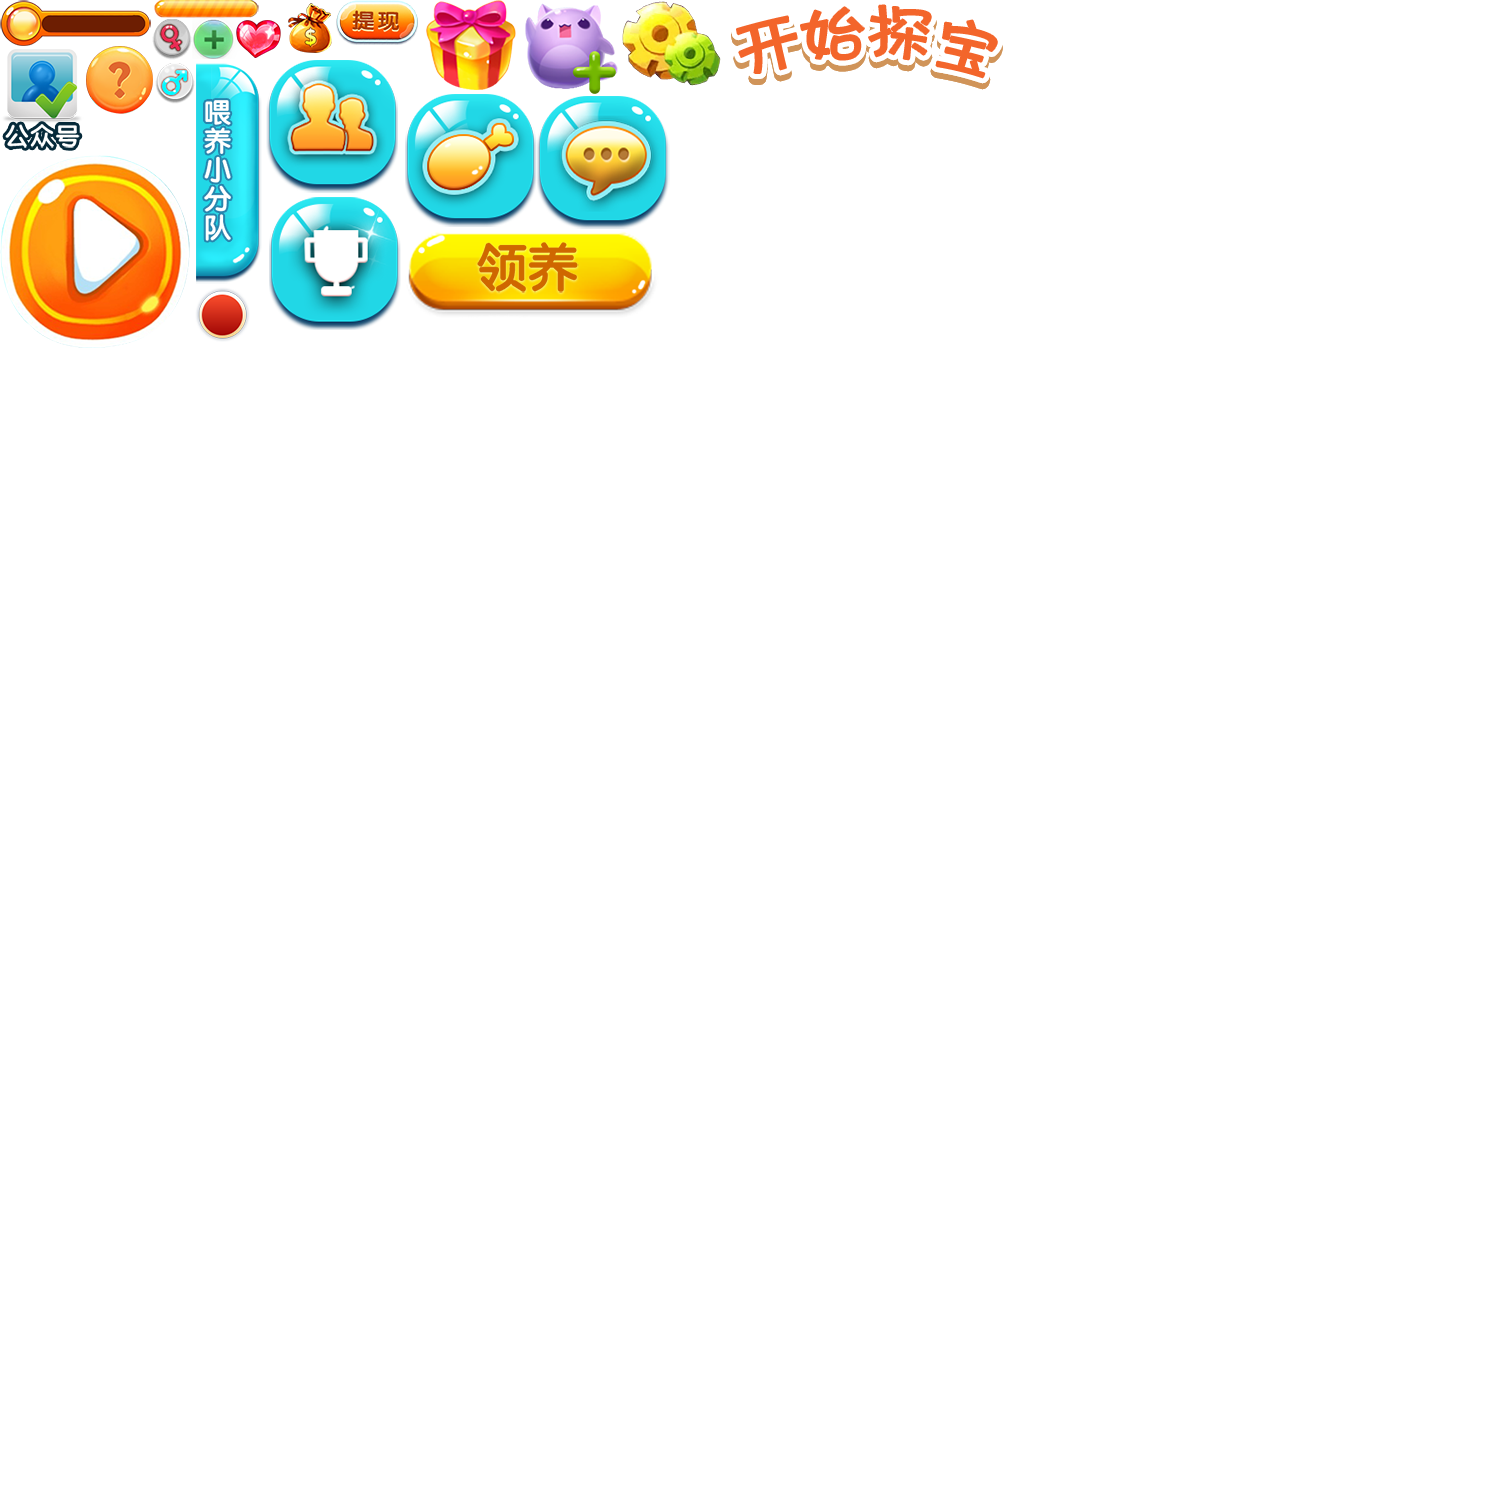
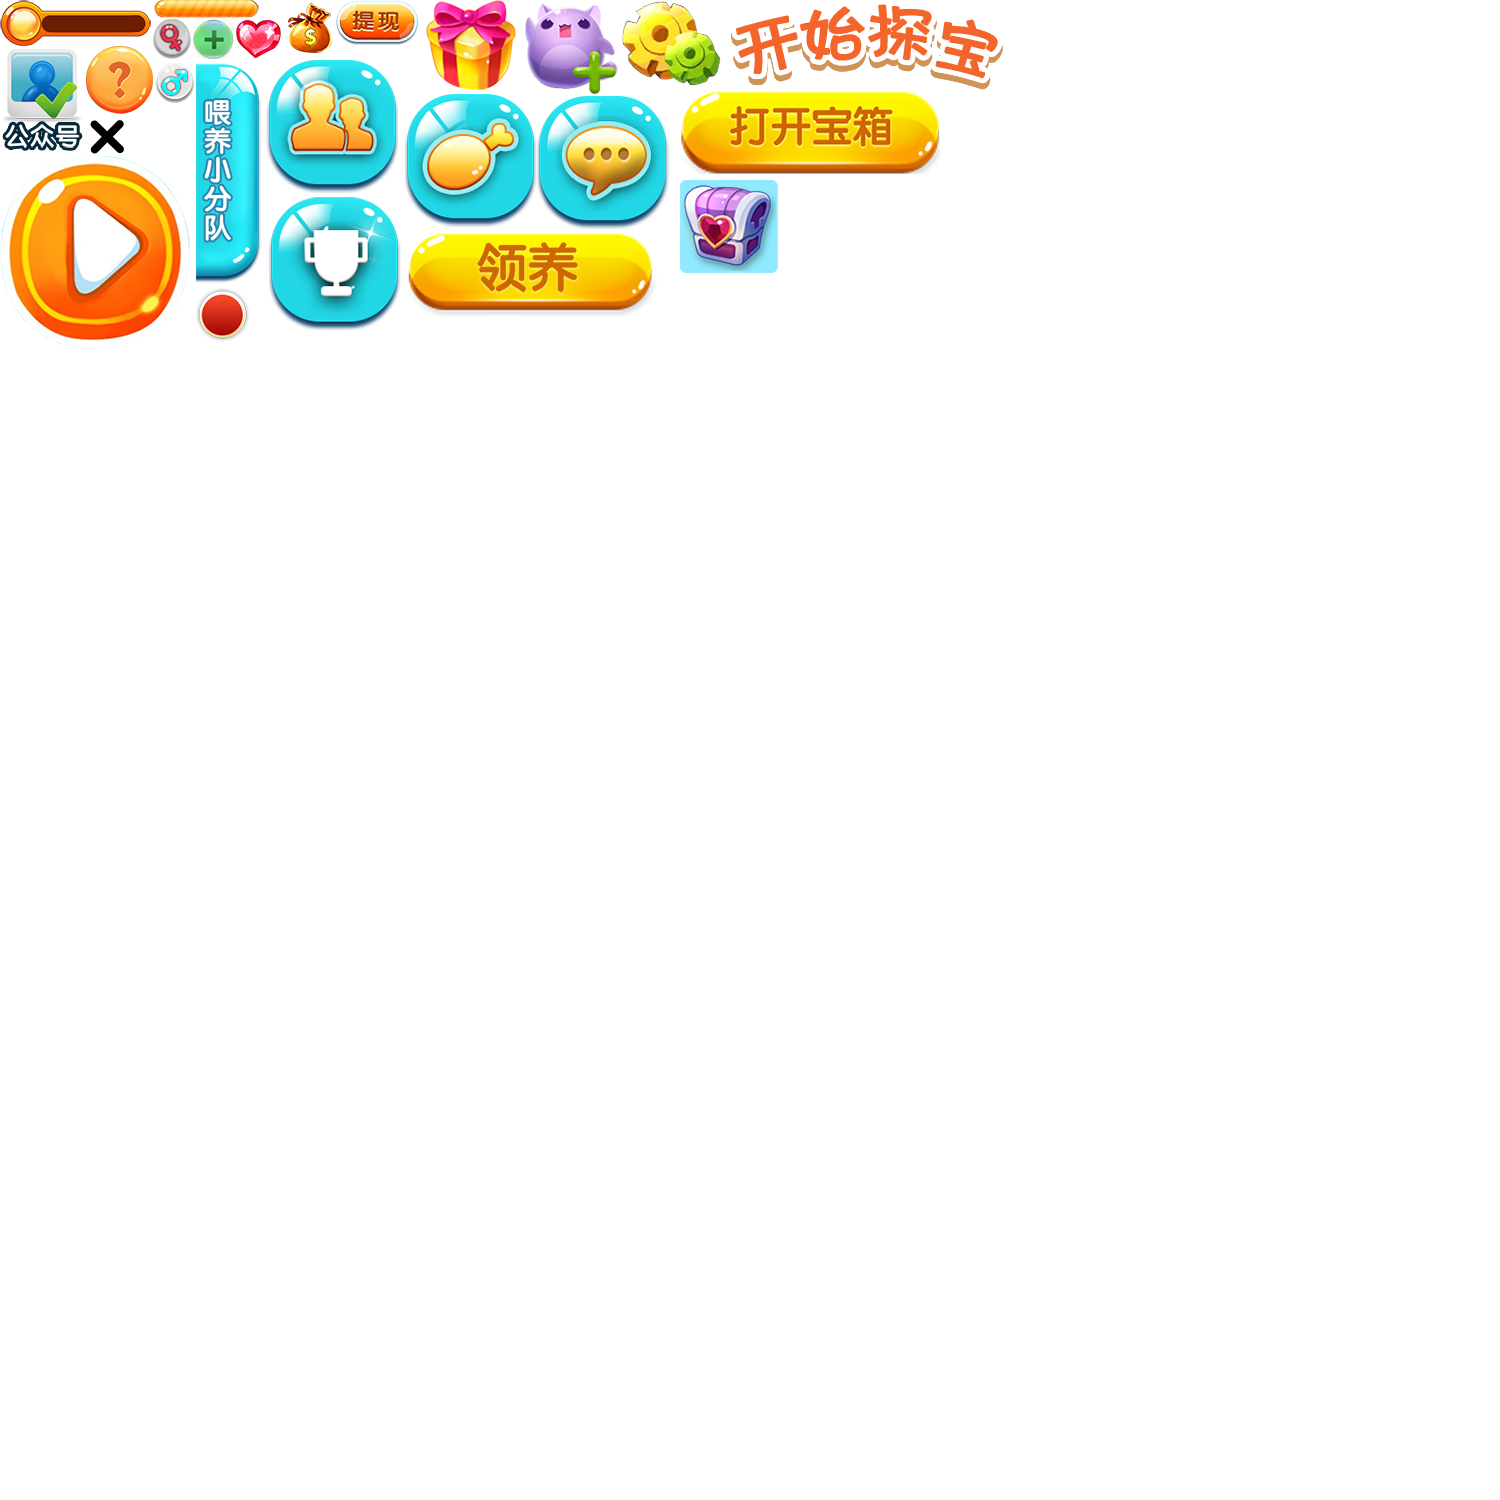
x

Changed region(s): [[0.4293, 0.0613, 0.644, 0.184], [0.0613, 0.0613, 0.092, 0.1227]]

diff --git a/xunbao/css/main.css b/xunbao/css/main.css
@@ -8,99 +8,18 @@ li{ list-style:none;}
 input{ -webkit-appearance:none; border-radius:0;}
 select{ -webkit-appearance:select; border-radius:0;}
 
-.cover{ width: 100%; height: 100%; background-color: rgba(0,0,0,0.5); position: fixed; top: 0; left: 0; z-index: 100;}
 canvas{display: block;}
 
-#loading{ width: 100%; height: 100%; background-color: #3c384a; position: fixed; top: 0; left: 0; z-index: 100; background-repeat: no-repeat; background-size: 100% 100%;}
-#animation{ width: 46%; margin: 35% auto 20% auto; position: relative;}
-#animation img{ width: 100%; display:block;}
-#animation div{ border-radius:50%; overflow:hidden;transform:scale(0.9,0.9); -webkit-transform:scale(0.9,0.9);}
-#animation div img{ border-radius:50%;}
-#animation img:nth-child(2){ position: absolute; top: 0; left: 0; animation:load 3s linear infinite; -webkit-animation:load 3s linear infinite;}
-@keyframes load{
-    0%{transform:rotateZ(0deg);}
-    100%{transform:rotateZ(360deg);}
-}
-@-webkit-keyframes load{
-    0%{-webkit-transform:rotateZ(0deg);}
-    100%{-webkit-transform:rotateZ(360deg);}
-}
-#loading p{ color: #FFF; text-align: center; font-size: 18px;}
+.window{ width: 100%; height: 100%; position: fixed; top:0; left: 0; z-index: 100; background-color: rgba(0,0,0,0.5); overflow: hidden; display: none;}
+.frame{ width: 98%; margin: 5% auto; border-radius: 20px; background-color: #67d8f2; overflow: hidden; transition: all 0.3s ease-out;-webkit-transition: all 0.3s ease-out;}
+.title{ width: 100%; overflow: hidden; border-radius: 20px 20px 0 0; background: -webkit-gradient(linear,0 0,0 100%,from(#1cbae8),to(#1ab7e7)); padding: 6px 0; box-shadow: 0 1px 4px rgba(0,0,0,0.5);}
+.title p{ font-size: 20px; text-align: center; color: #FFF; font-weight: bold;}
+.content{ width: 94%; margin: 5% auto; background-color: #e5f6fe; border-radius: 14px;}
+#map{ border: 2px solid #1795bb; min-height: 500px;}
 
 
-@-webkit-keyframes rubberBand {
-    0% {
-        -webkit-transform: scale3d(1, 1, 1);
-        transform: scale3d(1, 1, 1)
-    }
-    30% {
-        -webkit-transform: scale3d(1.25, .75, 1);
-        transform: scale3d(1.25, .75, 1)
-    }
-    40% {
-        -webkit-transform: scale3d(0.75, 1.25, 1);
-        transform: scale3d(0.75, 1.25, 1)
-    }
-    50% {
-        -webkit-transform: scale3d(1.15, .85, 1);
-        transform: scale3d(1.15, .85, 1)
-    }
-    65% {
-        -webkit-transform: scale3d(.95, 1.05, 1);
-        transform: scale3d(.95, 1.05, 1)
-    }
-    75% {
-        -webkit-transform: scale3d(1.05, .95, 1);
-        transform: scale3d(1.05, .95, 1)
-    }
-    100% {
-        -webkit-transform: scale3d(1, 1, 1);
-        transform: scale3d(1, 1, 1)
-    }
-}
-
-@keyframes rubberBand {
-    0% {
-        -webkit-transform: scale3d(1, 1, 1);
-        transform: scale3d(1, 1, 1)
-    }
-    30% {
-        -webkit-transform: scale3d(1.25, .75, 1);
-        transform: scale3d(1.25, .75, 1)
-    }
-    40% {
-        -webkit-transform: scale3d(0.75, 1.25, 1);
-        transform: scale3d(0.75, 1.25, 1)
-    }
-    50% {
-        -webkit-transform: scale3d(1.15, .85, 1);
-        transform: scale3d(1.15, .85, 1)
-    }
-    65% {
-        -webkit-transform: scale3d(.95, 1.05, 1);
-        transform: scale3d(.95, 1.05, 1)
-    }
-    75% {
-        -webkit-transform: scale3d(1.05, .95, 1);
-        transform: scale3d(1.05, .95, 1)
-    }
-    100% {
-        -webkit-transform: scale3d(1, 1, 1);
-        transform: scale3d(1, 1, 1)
-    }
-}
-
-.rubberBand {
-    -webkit-animation-name: rubberBand;
-    animation-name: rubberBand
-}
-
-
-
-
-
-
-
+.tsf-down{ transform: translate(0,200px);-webkit-transform: translate(0,200px);opacity: 0;}
+.tsf-reset{ transform: translate(0,0);-webkit-transform: translate(0,0);opacity: 1;}
 
 
 

diff --git a/xunbao/js/page.js b/xunbao/js/page.js
@@ -1,13 +1,13 @@
 var stage;
 
 var loadinglist = {};
-var loadingData = new Array(
+var loadingData = [
     {name:"L_loading",path:imgsrc+"./images/loading_cover.png"},
     {name:"L_line",path:imgsrc+"./images/loading_line.png"}
-);
+];
 
 var imglist = {};
-var imgData = new Array(
+var imgData = [
     {name:"bg1",path:imgsrc+"./images/bg1.jpg"},
     {name:"bg2",path:imgsrc+"./images/bg2.jpg"},
     {name:"select-female",path:imgsrc+"./images/select-female.png"},
@@ -16,7 +16,7 @@ var imgData = new Array(
     {name:"icons",path:imgsrc+"./images/icons.png"},
     {name:"male",path:imgsrc+"./images/male.png"},
     {name:"female",path:imgsrc+"./images/female.png"}
-);
+];
 
 function main(){
     LGlobal.setDebug(true);
@@ -62,6 +62,7 @@ function loading_gameData(){
     );
 }
 
+//选择宠物页
 function selectPage(){
     selectLayer = new LSprite();
     stage.addChild(selectLayer);
@@ -80,7 +81,8 @@ function selectPage(){
     female.addChild(btnFemale);
     btnFemale.addEventListener(LMouseEvent.MOUSE_DOWN,function(){
         Zclick.call(btnFemale,function(){
-            homePage('female');
+            //homePage('female');
+            mapPage();
         });
     });
 
@@ -100,6 +102,7 @@ function selectPage(){
     });
 }
 
+//首页
 function homePage(sex){
     homeLayer = new LSprite();
     stage.addChild(homeLayer);
@@ -161,4 +164,44 @@ function homePage(sex){
 
     var transParams = {type:LTransition.Curtain,dimension:1,duration:2,direction:LTransition.IN,easing:Strong.easeOut};
     LTransitionManager.start(homeLayer,transParams);
+}
+
+//地图页
+function mapPage(){
+    var mapWindow = document.getElementById('mapWindow');
+    mapWindow.style.display = 'block';
+    setTimeout(function(){
+        mapWindow.firstElementChild.className += ' tsf-reset';
+    },100);
+    document.getElementById('map').style.height = window.innerHeight*0.8+'px';
+
+    map = new AMap.Map('map', {
+        resizeEnable: true
+    });
+    map.plugin('AMap.Geolocation', function() {
+        geolocation = new AMap.Geolocation({
+            enableHighAccuracy: true,//是否使用高精度定位，默认:true
+            timeout: 10000,          //超过10秒后停止定位，默认：无穷大
+            buttonOffset: new AMap.Pixel(10, 20),//定位按钮与设置的停靠位置的偏移量，默认：Pixel(10, 20)
+            zoomToAccuracy: true,      //定位成功后调整地图视野范围使定位位置及精度范围视野内可见，默认：false
+            buttonPosition:'RB'
+        });
+        map.addControl(geolocation);
+        geolocation.getCurrentPosition();
+        AMap.event.addListener(geolocation, 'complete', function(data){
+            var lng = data.position.getLng();
+            var lat = data.position.getLat();
+            console.log('lng:'+lng+';lat:'+lat);
+
+            marker = new AMap.Marker({
+                map : map,
+                icon : "images/icon-marker.png",
+                position : [lng-0.001,lat-0.001],
+                offset : new AMap.Pixel(-25, -36)
+            })
+        });//返回定位信息
+        AMap.event.addListener(geolocation, 'error', function(data){
+            console.log("fail");
+        });      //返回定位出错信息
+    });
 }

diff --git a/xunbao/game.html b/xunbao/game.html
@@ -12,18 +12,34 @@
     <link href="css/main.css" rel="stylesheet" type="text/css">
 </head>
 <body>
-    <div id="txt1"></div>
-    <div id="txt2"></div>
-
-
     <div id="stage"></div>
+
+    <!-- 地图寻宝 -->
+    <div class="window" id="mapWindow">
+        <div class="frame tsf-down" id="mapframe">
+            <div class="title">
+                <p>探宝</p>
+            </div>
+            <div class="content" id="map">
+
+            </div>
+        </div>
+
+        <div class="infoWindow">
+            <div>
+
+            </div>
+        </div>
+    </div>
+
     <script>
-        var imgsrc = '';
+        var imgsrc = '';//图片地址
     </script>
     <script src="js/lufylegend-1.10.1.min.js" type="application/javascript" language="javascript"></script>
     <script src="js/Funcs.js" type="application/javascript" language="javascript"></script>
     <script src="js/components.js" type="application/javascript" language="javascript"></script>
     <script src="js/page.js" type="application/javascript" language="javascript"></script>
+    <script type="text/javascript" src="https://webapi.amap.com/maps?v=1.3&key=9243fe9769a63a2356eda20b69b2668e"></script>
     <script>
         LInit(16,"stage",750,1333,main);
     </script>
